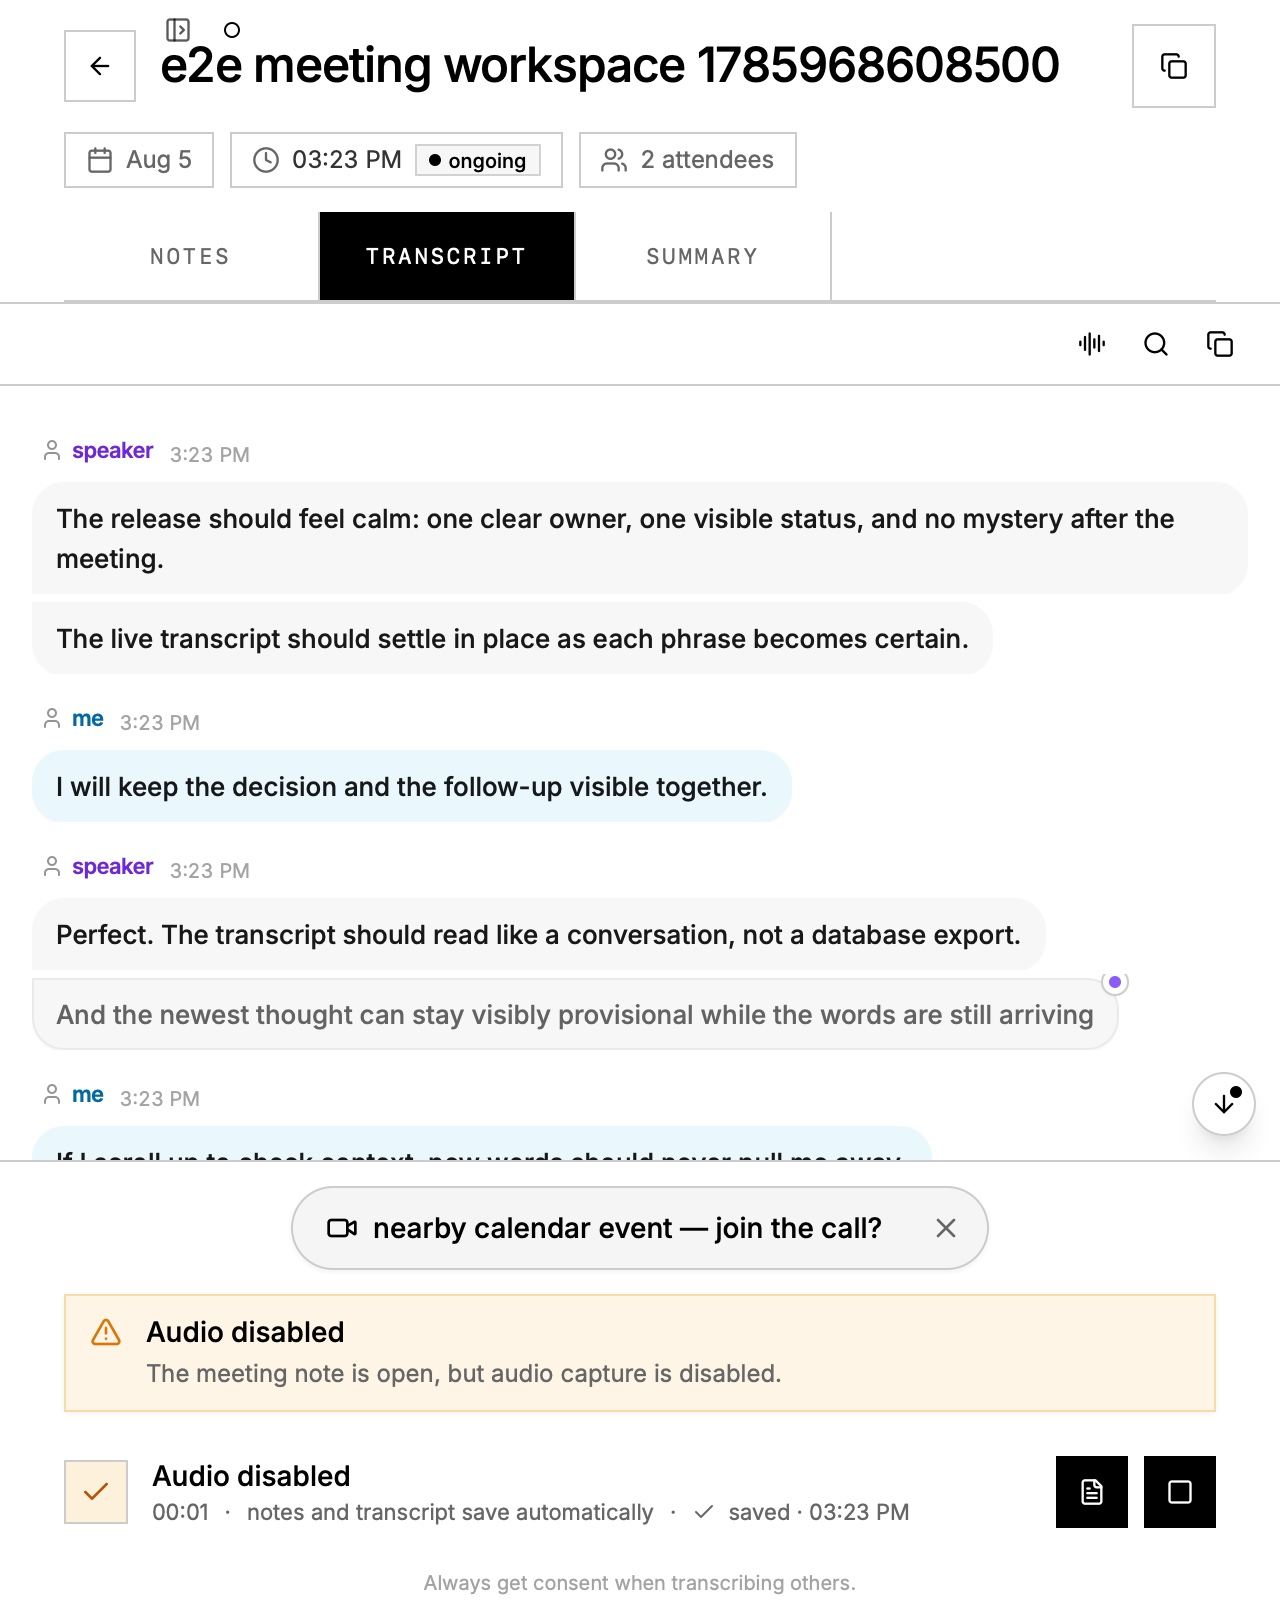
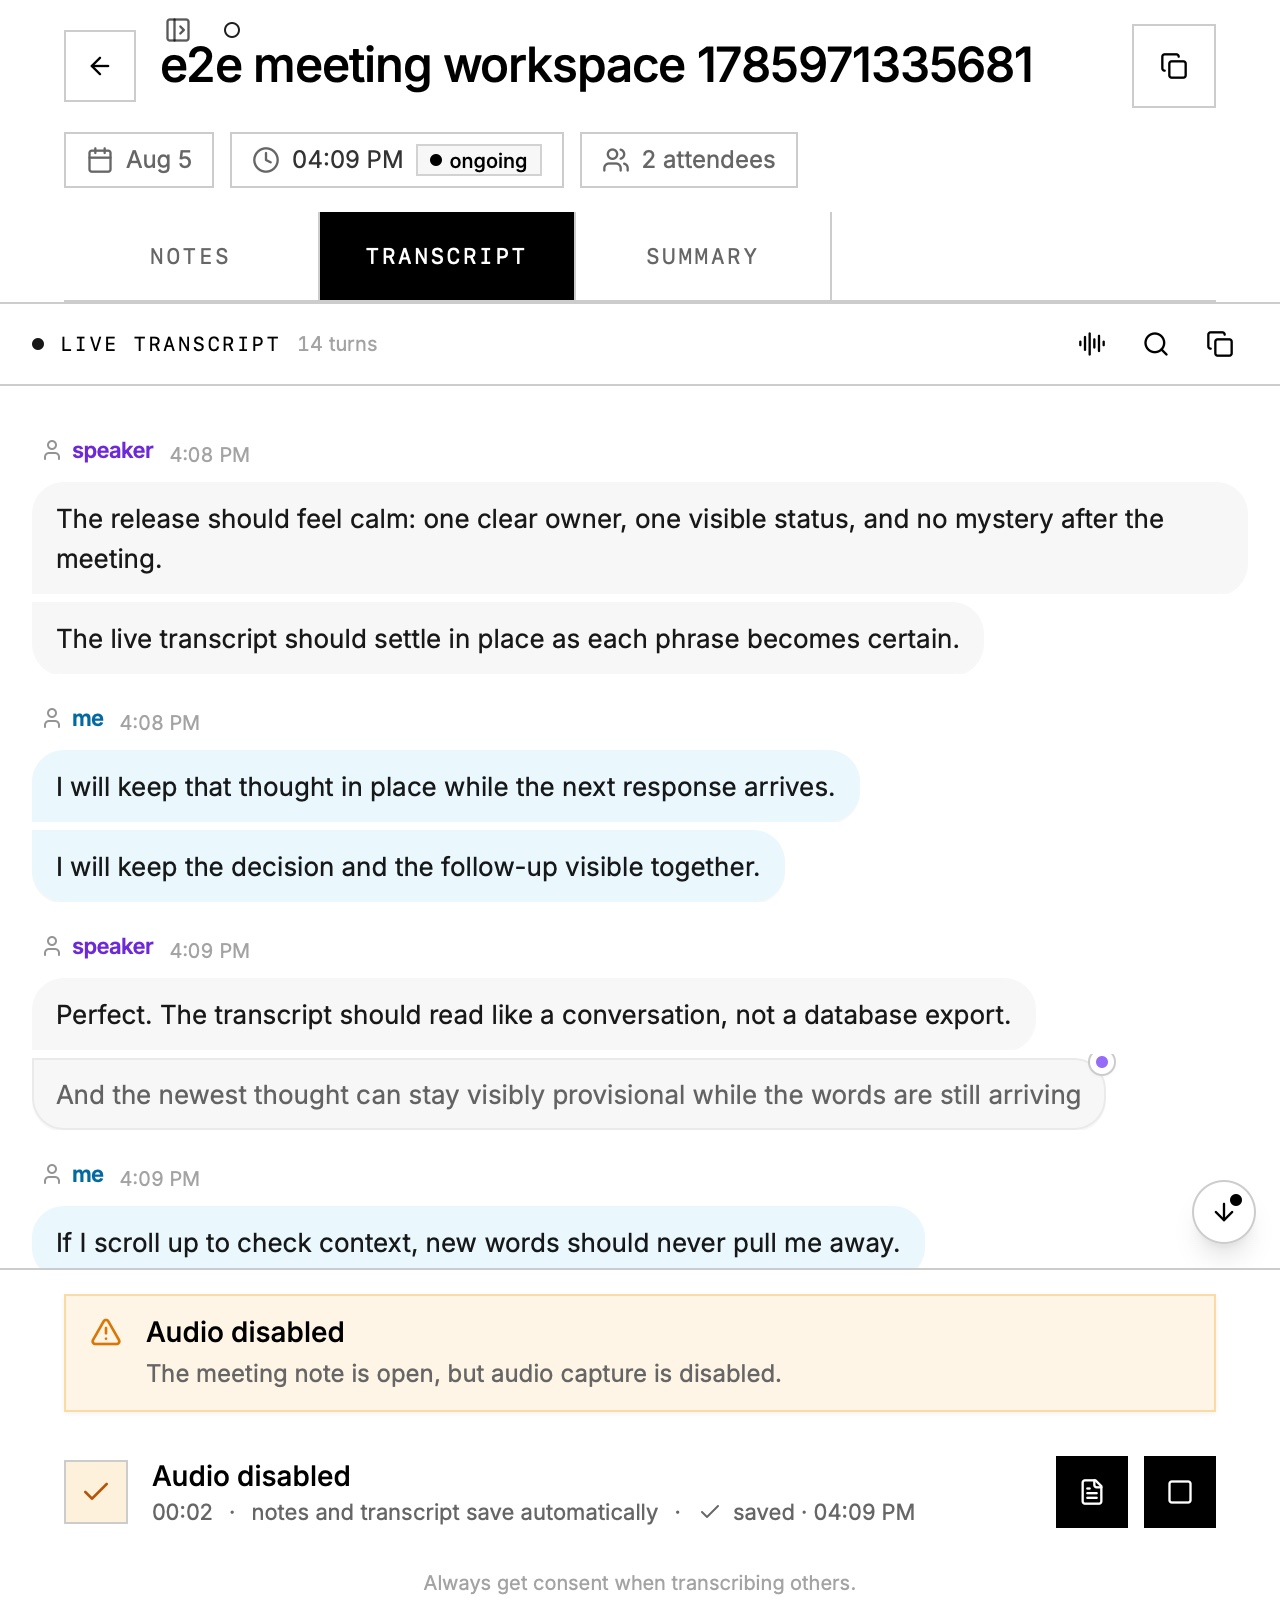
refine live transcript feedback

diff --git a/apps/screenpipe-app-tauri/components/meeting-notes/transcript-panel.tsx b/apps/screenpipe-app-tauri/components/meeting-notes/transcript-panel.tsx
@@ -317,6 +317,7 @@ export function TranscriptPanel({
   const [hasUnseenLive, setHasUnseenLive] = useState(false);
   const containerRef = useRef<HTMLDivElement | null>(null);
   const panelRef = useRef<HTMLDivElement | null>(null);
+  const lastObservedBlockSignalRef = useRef<string | null>(null);
   // User-dragged height in px (null = responsive default). Drag the top grip to
   // shrink/grow the drawer so it takes less of the window.
   const [panelHeight, setPanelHeight] = useState<number | null>(() =>
@@ -459,7 +460,6 @@ export function TranscriptPanel({
                 ? {
                     ...b,
                     text: event.payload.replace ? delta : `${b.text}${delta}`,
-                    capturedAt: event.payload.captured_at,
                   }
                 : b,
             );
@@ -499,7 +499,6 @@ export function TranscriptPanel({
                 ? {
                     ...b,
                     text: transcript,
-                    capturedAt: event.payload.captured_at,
                     final: true,
                   }
                 : b,
@@ -647,6 +646,12 @@ export function TranscriptPanel({
     const latest = displayBlocks[displayBlocks.length - 1];
     return latest ? `${latest.key}:${latest.text.length}` : "empty";
   }, [displayBlocks]);
+  const latestFinalLiveBlock = useMemo(
+    () =>
+      [...visibleLiveSpeakerBlocks].reverse().find((block) => block.final) ??
+      null,
+    [visibleLiveSpeakerBlocks],
+  );
 
   // Plain-text dump of the whole transcript (not the filtered view) for
   // clipboard. Each block becomes a "[hh:mm] name\ntext" paragraph.
@@ -707,6 +712,7 @@ export function TranscriptPanel({
     if (!isOpen) return;
     setIsFollowingLive(true);
     setHasUnseenLive(false);
+    lastObservedBlockSignalRef.current = null;
   }, [isOpen, meeting.id]);
 
   useEffect(() => {
@@ -741,9 +747,28 @@ export function TranscriptPanel({
   }, [isOpen]);
 
   useEffect(() => {
-    if (!isOpen || !isLive || query.trim()) return;
+    const previousSignal = lastObservedBlockSignalRef.current;
+    const transcriptChanged =
+      previousSignal !== null && previousSignal !== latestBlockSignal;
+    lastObservedBlockSignalRef.current = latestBlockSignal;
+
+    if (!isOpen || !isLive) return;
+    if (previousSignal === null) {
+      if (!query.trim() && hasTranscriptContent) {
+        scrollToLatest(loaded ? "smooth" : "auto");
+      }
+      return;
+    }
+    if (query.trim()) {
+      // Searching is an explicit reading mode. Keep the viewport still and
+      // require a deliberate return to live after the search is cleared.
+      setIsFollowingLive(false);
+      if (transcriptChanged) setHasUnseenLive(true);
+      return;
+    }
+    if (!transcriptChanged) return;
     if (!isFollowingLive) {
-      setHasUnseenLive(hasTranscriptContent);
+      setHasUnseenLive(true);
       return;
     }
     scrollToLatest(loaded ? "smooth" : "auto");
@@ -806,6 +831,17 @@ export function TranscriptPanel({
     : `Still recording; ${pendingTranscriptSegments} audio segment${
         pendingTranscriptSegments === 1 ? "" : "s"
       } waiting for background transcription.`;
+  const transcriptState = showRecoveryBanner
+    ? "recovering"
+    : !isLive
+      ? "saved transcript"
+      : visibleLiveBlocks.length > 0 || liveStatus?.active
+        ? "live transcript"
+        : captureState?.shortLabel || "listening";
+  const transcriptStateDetail =
+    displayBlocks.length > 0
+      ? `${displayBlocks.length} turn${displayBlocks.length === 1 ? "" : "s"}`
+      : null;
 
   return (
     <>
@@ -882,7 +918,35 @@ export function TranscriptPanel({
               className="min-w-0 flex-1 bg-transparent text-xs px-2 h-7 border border-input focus:outline-none focus:ring-1 focus:ring-ring placeholder:text-muted-foreground/50"
             />
           ) : (
-            <div className="flex-1" />
+            <div className="flex min-w-0 flex-1 items-center gap-2">
+              <span
+                className="inline-flex min-w-0 items-center gap-2 font-mono text-[10px] uppercase tracking-[0.12em] text-foreground"
+                role="status"
+                aria-label={`transcript status: ${transcriptState}`}
+                data-testid="transcript-stream-status"
+              >
+                <span
+                  aria-hidden
+                  className={cn(
+                    "h-1.5 w-1.5 shrink-0 rounded-full",
+                    transcriptState === "recovering"
+                      ? "bg-amber-500"
+                      : isLive
+                        ? "bg-foreground"
+                        : "bg-muted-foreground/45",
+                    isLive &&
+                      transcriptState !== "recovering" &&
+                      "animate-pulse motion-reduce:animate-none",
+                  )}
+                />
+                <span className="truncate">{transcriptState}</span>
+              </span>
+              {transcriptStateDetail && (
+                <span className="shrink-0 text-[10px] tabular-nums text-muted-foreground/60">
+                  {transcriptStateDetail}
+                </span>
+              )}
+            </div>
           )}
           {query.trim() && (
             <span
@@ -910,6 +974,9 @@ export function TranscriptPanel({
                   searchOpen && "bg-accent text-accent-foreground",
                 )}
                 title={searchOpen ? "hide search" : "search transcript (⌘F)"}
+                aria-label={
+                  searchOpen ? "hide transcript search" : "search transcript"
+                }
                 aria-pressed={searchOpen}
               >
                 <Search className="h-3.5 w-3.5" />
@@ -922,6 +989,7 @@ export function TranscriptPanel({
               disabled={displayBlocks.length === 0}
               className="h-7 w-7 p-0"
               title={copied ? "copied" : "copy transcript"}
+              aria-label={copied ? "transcript copied" : "copy transcript"}
             >
               {copied ? (
                 <Check className="h-3.5 w-3.5" />
@@ -936,6 +1004,7 @@ export function TranscriptPanel({
                 onClick={onClose}
                 className="h-7 w-7 p-0"
                 title="close transcript"
+                aria-label="close transcript"
               >
                 <X className="h-3.5 w-3.5" />
               </Button>
@@ -994,6 +1063,16 @@ export function TranscriptPanel({
                 onSpeakerAssigned={refetch}
               />
             )}
+            <span
+              className="sr-only"
+              role="status"
+              aria-live="polite"
+              aria-atomic="true"
+            >
+              {latestFinalLiveBlock
+                ? `${latestFinalLiveBlock.speakerName}: ${latestFinalLiveBlock.text}`
+                : ""}
+            </span>
           </div>
           {showFollowButton && (
             <Button
@@ -1006,7 +1085,10 @@ export function TranscriptPanel({
             >
               <ArrowDown className="h-3.5 w-3.5" />
               {hasUnseenLive && (
-                <span className="absolute right-1.5 top-1.5 h-1.5 w-1.5 rounded-full bg-foreground" />
+                <span
+                  data-testid="follow-live-unseen"
+                  className="absolute right-1.5 top-1.5 h-1.5 w-1.5 rounded-full bg-foreground"
+                />
               )}
             </Button>
           )}
@@ -1026,12 +1108,7 @@ export const TranscriptRows = React.memo(function TranscriptRows({
   onSpeakerAssigned: () => void;
 }) {
   return (
-    <ol
-      className="space-y-0.5 px-4 pb-10 pt-3"
-      aria-label="meeting transcript"
-      aria-live="polite"
-      aria-relevant="additions text"
-    >
+    <ol className="space-y-0.5 px-4 pb-10 pt-3" aria-label="meeting transcript">
       {blocks.map((block, index) => (
         <SpeakerParagraph
           key={block.key}
@@ -1136,7 +1213,7 @@ export const SpeakerParagraph = React.memo(function SpeakerParagraph({
       >
         <p
           className={cn(
-            "whitespace-pre-wrap break-words text-[13px] font-medium leading-5",
+            "whitespace-pre-wrap break-words text-[13px] font-normal leading-5",
             block.final ? "text-foreground/90" : "text-foreground/60",
           )}
         >

diff --git a/apps/screenpipe-app-tauri/e2e/specs/meeting-workspace-tabs.spec.ts b/apps/screenpipe-app-tauri/e2e/specs/meeting-workspace-tabs.spec.ts
@@ -92,6 +92,7 @@ async function emitTranscript(
   text: string,
   finalSegment: boolean,
   replace = true,
+  capturedAt = new Date().toISOString(),
 ): Promise<void> {
   const event = finalSegment
     ? "meeting-transcript-final"
@@ -106,7 +107,7 @@ async function emitTranscript(
       device_name: `e2e-${deviceType}`,
       device_type: deviceType,
       ...(finalSegment ? { transcript: text } : { delta: text, replace }),
-      captured_at: new Date().toISOString(),
+      captured_at: capturedAt,
     },
   });
 }
@@ -237,16 +238,32 @@ describe("meeting workspace tabs and responsive layout", function () {
       "meeting-transcript-surface",
       10_000,
     );
+    const streamStatus = await waitForTestId("transcript-stream-status", 5_000);
     expect(await transcriptTab.getAttribute("aria-selected")).toBe("true");
     expect(await editor.isExisting()).toBe(true);
     expect(await editor.isDisplayed()).toBe(false);
 
+    // Keep the reorder probe behind the later synthetic turns while preserving
+    // deterministic spacing within the partial/refinement/final sequence.
+    const liveSequenceStart = Date.now() - 10_000;
     await emitTranscript(
       meetingId,
       "turn-01",
       "output",
       "The release should feel calm: one clear owner, one visible status, and no mystery after the meeting.",
       true,
+      true,
+      new Date(liveSequenceStart).toISOString(),
+    );
+    await browser.waitUntil(
+      async () =>
+        (await streamStatus.getText())
+          .toLowerCase()
+          .includes("live transcript"),
+      {
+        timeout: t(5_000),
+        timeoutMsg: "transcript header did not expose the live stream state",
+      },
     );
     await emitTranscript(
       meetingId,
@@ -254,11 +271,22 @@ describe("meeting workspace tabs and responsive layout", function () {
       "output",
       "The live transcript",
       false,
+      true,
+      new Date(liveSequenceStart + 1_000).toISOString(),
     );
     const refiningRow = await $(
       '[data-testid="transcript-row"][data-final="false"]',
     );
     await refiningRow.waitForExist({ timeout: t(5_000) });
+    await emitTranscript(
+      meetingId,
+      "turn-order-anchor",
+      "input",
+      "I will keep that thought in place while the next response arrives.",
+      true,
+      true,
+      new Date(liveSequenceStart + 2_000).toISOString(),
+    );
     const rowCountBeforeRefinement = (
       await $$('[data-testid="transcript-row"]')
     ).length;
@@ -269,6 +297,7 @@ describe("meeting workspace tabs and responsive layout", function () {
       " should settle in place as each phrase becomes certain.",
       false,
       false,
+      new Date(liveSequenceStart + 3_000).toISOString(),
     );
     await browser.waitUntil(
       async () =>
@@ -283,12 +312,27 @@ describe("meeting workspace tabs and responsive layout", function () {
     expect((await $$('[data-testid="transcript-row"]')).length).toBe(
       rowCountBeforeRefinement,
     );
+    const rowOrderAfterRefinement: string[] = [];
+    for (const row of await $$('[data-testid="transcript-row"]')) {
+      rowOrderAfterRefinement.push(await row.getText());
+    }
+    expect(
+      rowOrderAfterRefinement.findIndex((text) =>
+        text.includes("The live transcript should settle in place"),
+      ),
+    ).toBeLessThan(
+      rowOrderAfterRefinement.findIndex((text) =>
+        text.includes("I will keep that thought in place"),
+      ),
+    );
     await emitTranscript(
       meetingId,
       "turn-02",
       "output",
       "The live transcript should settle in place as each phrase becomes certain.",
       true,
+      true,
+      new Date(liveSequenceStart + 4_000).toISOString(),
     );
     await browser.waitUntil(
       async () =>
@@ -298,6 +342,19 @@ describe("meeting workspace tabs and responsive layout", function () {
         timeout: t(5_000),
         timeoutMsg: "final transcript did not replace its provisional state",
       },
+    );
+    const rowOrderAfterFinal: string[] = [];
+    for (const row of await $$('[data-testid="transcript-row"]')) {
+      rowOrderAfterFinal.push(await row.getText());
+    }
+    expect(
+      rowOrderAfterFinal.findIndex((text) =>
+        text.includes("The live transcript should settle in place"),
+      ),
+    ).toBeLessThan(
+      rowOrderAfterFinal.findIndex((text) =>
+        text.includes("I will keep that thought in place"),
+      ),
     );
     await emitTranscript(
       meetingId,
@@ -473,6 +530,35 @@ describe("meeting workspace tabs and responsive layout", function () {
     );
     const followLive = await $('button[aria-label="follow live transcript"]');
     await followLive.waitForDisplayed({ timeout: t(5_000) });
+    expect(await $('[data-testid="follow-live-unseen"]').isExisting()).toBe(
+      false,
+    );
+    await emitTranscript(
+      meetingId,
+      "turn-13",
+      "output",
+      "A new phrase can arrive without moving the reader's viewport.",
+      true,
+    );
+    await browser.waitUntil(
+      async () =>
+        (await transcriptSurface.getText()).includes(
+          "A new phrase can arrive without moving the reader's viewport.",
+        ),
+      {
+        timeout: t(5_000),
+        timeoutMsg: "new offscreen live phrase did not render",
+      },
+    );
+    await $('[data-testid="follow-live-unseen"]').waitForExist({
+      timeout: t(5_000),
+    });
+    expect(
+      (await browser.execute(
+        (element: HTMLElement) => element.scrollTop,
+        transcriptScroller,
+      )) as number,
+    ).toBeLessThanOrEqual(1);
     await browser.pause(t(250));
 
     const screenshotPath = resolve(
@@ -486,7 +572,15 @@ describe("meeting workspace tabs and responsive layout", function () {
       (element: HTMLElement) => element.scrollTop,
       transcriptScroller,
     )) as number;
-    await followLive.click();
+    // The unread state rerenders this button after new speech; query the live
+    // element again instead of retaining the pre-update WebDriver reference.
+    const currentFollowLive = await $(
+      'button[aria-label="follow live transcript"]',
+    );
+    await browser.execute(
+      (element: HTMLButtonElement) => element.click(),
+      currentFollowLive,
+    );
     await browser.waitUntil(
       async () =>
         ((await browser.execute(
